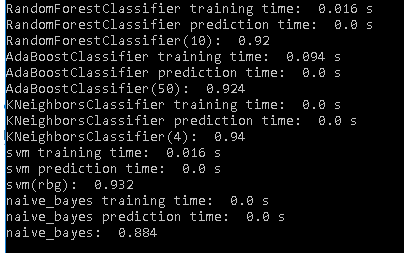
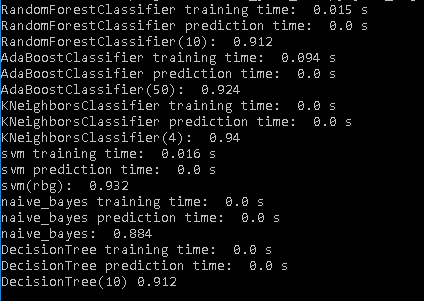
decision tree

diff --git a/choose_your_own/your_algorithm.py b/choose_your_own/your_algorithm.py
@@ -103,12 +103,27 @@ print "naive_bayes prediction time: ", round(time() - t0, 3), "s"
 
 print "naive_bayes: ", accuracy_score(pred, labels_test)
 
+# DecisionTree
+from sklearn import tree
+cldt = tree.DecisionTreeClassifier(min_samples_split=36)
+
+t0 = time()
+cldt = cldt.fit(features_train, labels_train)
+print "DecisionTree training time: ", round(time() - t0, 3), "s"
+
+t0 = time()
+pred = cldt.predict(features_test)
+print "DecisionTree prediction time: ", round(time() - t0, 3), "s"
+
+print "DecisionTree(36)", accuracy_score(pred, labels_test)
+
 
 try:
     #prettyPicture(clfk, features_test, labels_test)
     #prettyPicture(clfad, features_test, labels_test)
     #prettyPicture(clfrf, features_test, labels_test)
     #prettyPicture(clfsvm, features_test, labels_test)
-    prettyPicture(clfnb, features_test, labels_test)
+    #prettyPicture(clfnb, features_test, labels_test)
+    prettyPicture(cldt, features_test, labels_test)
 except NameError:
     pass
